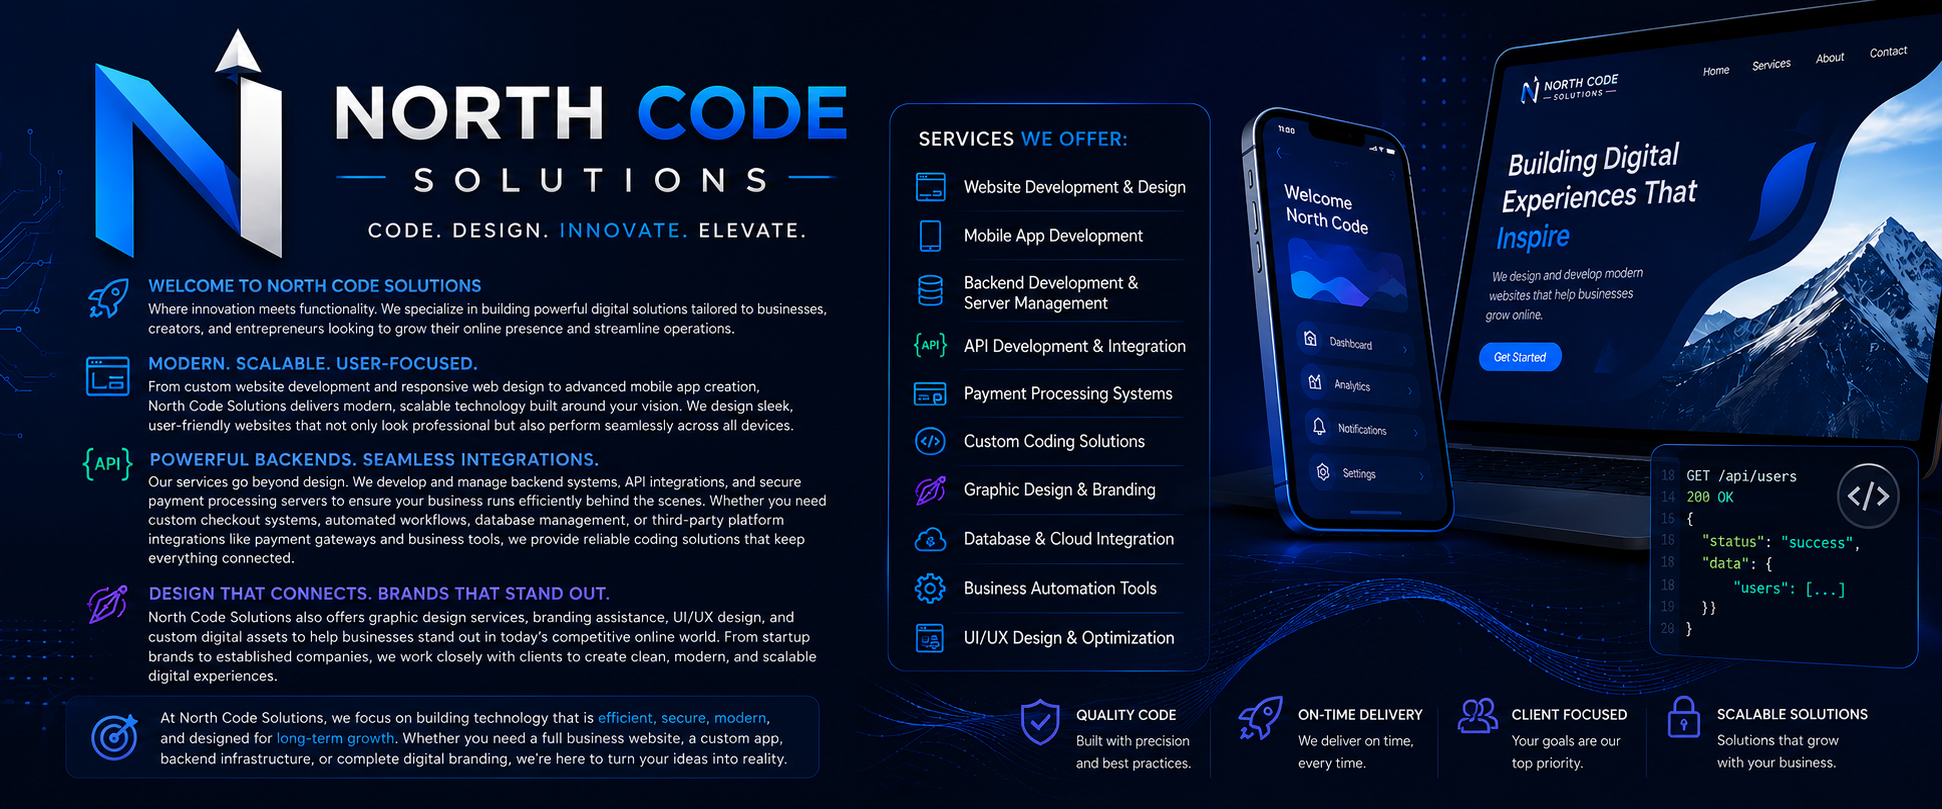
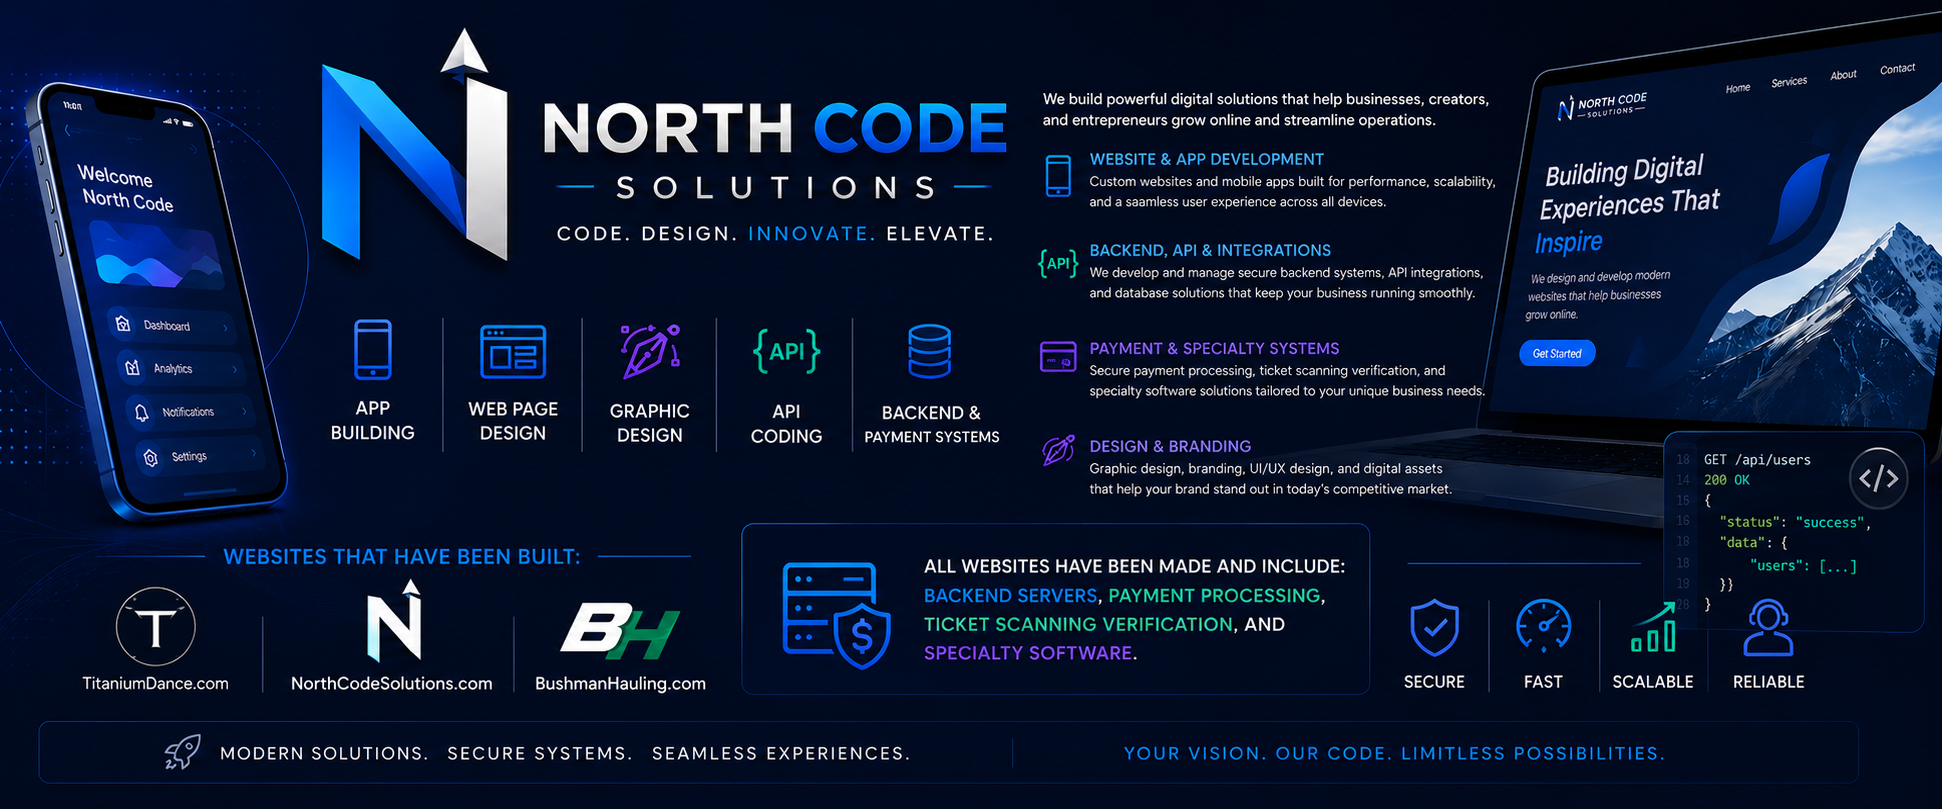
Update North Code homepage links

diff --git a/src/App.css b/src/App.css
@@ -11,16 +11,55 @@
     #020916;
 }
 
-.home-art {
+.art-stage {
+  position: relative;
   display: block;
   width: min(100%, 1942px);
   max-height: calc(100vh - 28px);
+}
+
+.home-art {
+  display: block;
+  width: 100%;
+  max-height: inherit;
   border: 1px solid rgba(0, 145, 255, 0.28);
   border-radius: 8px;
   object-fit: contain;
   box-shadow:
     0 24px 90px rgba(0, 0, 0, 0.48),
     0 0 60px rgba(0, 112, 255, 0.22);
+}
+
+.website-hotspot {
+  position: absolute;
+  top: 69.1%;
+  height: 17.8%;
+  border-radius: 8px;
+  cursor: pointer;
+  outline: 0;
+}
+
+.website-hotspot:hover,
+.website-hotspot:focus-visible {
+  background: rgba(0, 132, 255, 0.12);
+  box-shadow:
+    inset 0 0 0 2px rgba(56, 189, 248, 0.8),
+    0 0 28px rgba(0, 132, 255, 0.34);
+}
+
+.titanium-link {
+  left: 4.4%;
+  width: 9.6%;
+}
+
+.north-code-link {
+  left: 14.8%;
+  width: 11.8%;
+}
+
+.bushman-link {
+  left: 27.2%;
+  width: 10.3%;
 }
 
 .contact-panel {
@@ -90,10 +129,13 @@
     padding: 10px;
   }
 
-  .home-art {
+  .art-stage {
     width: max(980px, 100%);
     max-height: none;
-    transform-origin: top left;
+  }
+
+  .home-art {
+    max-height: none;
   }
 
   .contact-panel {

diff --git a/src/App.tsx b/src/App.tsx
@@ -2,14 +2,46 @@ import './App.css'
 
 const contactEmail = '[email redacted]'
 
+const websiteLinks = [
+  {
+    className: 'titanium-link',
+    href: 'https://titaniumdance.com',
+    label: 'Open TitaniumDance.com',
+  },
+  {
+    className: 'north-code-link',
+    href: 'https://northcodesolutions.com',
+    label: 'Open NorthCodeSolutions.com',
+  },
+  {
+    className: 'bushman-link',
+    href: 'https://bushmanhauling.com',
+    label: 'Open BushmanHauling.com',
+  },
+]
+
 function App() {
   return (
     <main className="landing-page">
-      <img
-        className="home-art"
-        src="/images/ncs-home.png"
-        alt="North Code Solutions overview showing digital services, website design, mobile app development, backend systems, API integrations, and business automation tools."
-      />
+      <div className="art-stage">
+        <img
+          className="home-art"
+          src="/images/ncs-home.png"
+          alt="North Code Solutions overview showing digital services, built websites, website design, mobile app development, backend systems, API integrations, and business automation tools."
+        />
+
+        {websiteLinks.map((link) => (
+          <a
+            aria-label={link.label}
+            className={`website-hotspot ${link.className}`}
+            href={link.href}
+            key={link.href}
+            rel="noreferrer"
+            target="_blank"
+            title={link.label}
+          />
+        ))}
+      </div>
 
       <div className="contact-panel" aria-label="Contact North Code Solutions">
         <p>Ready to build?</p>